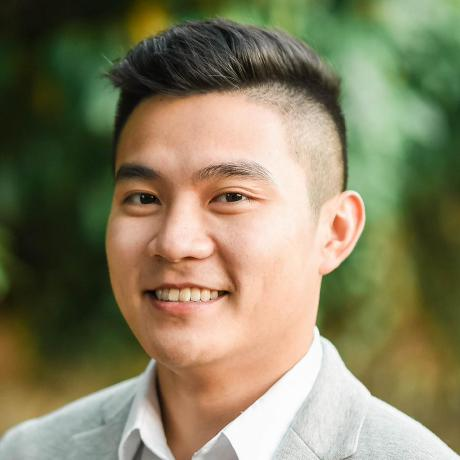
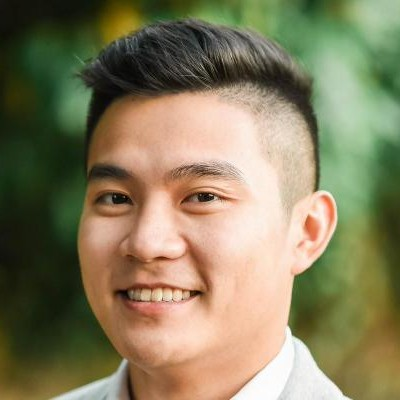
Crop profile photo tighter on face

diff --git a/index.html b/index.html
@@ -31,7 +31,7 @@
     <div class="container">
       <div class="intro">
         <div class="avatar-figure">
-          <img class="avatar" src="avatar.jpg" alt="Sol Nguyen" width="200" height="200">
+          <img class="avatar" src="avatar.jpg?v=2" alt="Sol Nguyen" width="200" height="200">
           <!-- Line-drawn family: mom and daughter (long hair, triangle dresses) holding hands with Sol, who waves -->
           <svg class="stick-body" viewBox="0 0 400 230" aria-hidden="true">
             <!-- Mom -->
